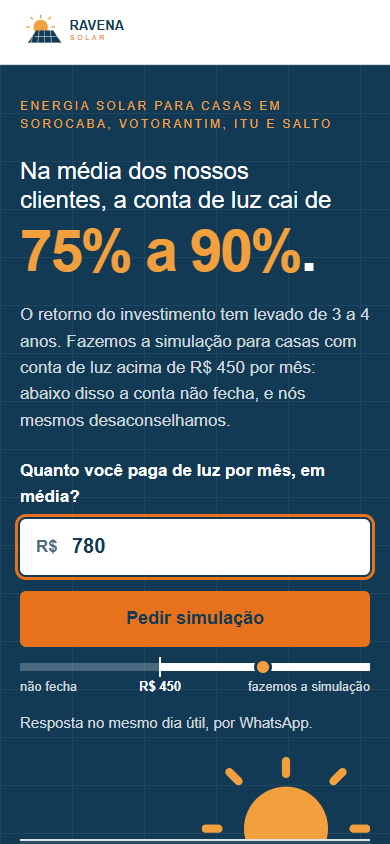
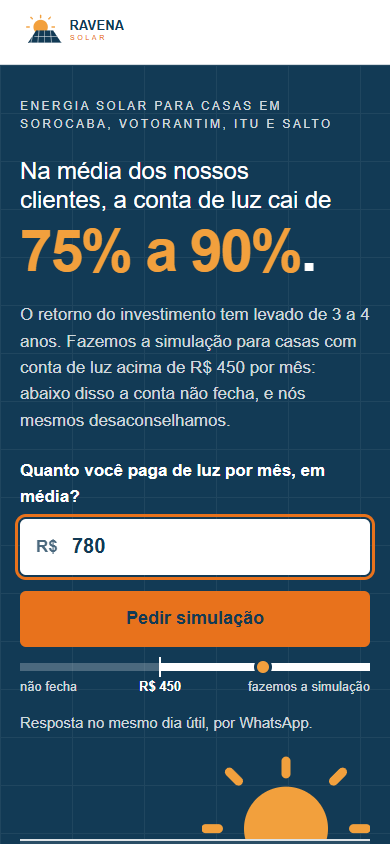
Primeira dobra redistribuída e painel de prova mais leve
- A dobra cai na linha de cima do painel: os números não aparecem
  mais cortados ao meio (SPEC, item 3).
- Cinco tamanhos de texto acima da dobra, frase em 40px quebrando
  depois de "clientes,", sobretítulo numa linha e sem âmbar.
- Ritmo vertical único e coluna de 720px, centrada na altura em
  janelas altas.
- Painel de prova: números até 64px, legenda maior e faixa de azul
  com linha de fechamento embaixo.
- Sol até 360px, com traço fixo nos raios.
- DESIGN.md com o porquê de cada regra; verificar.mjs confere a
  frase em 40px; capturas locais refeitas (117 OK).

diff --git a/styles.css b/styles.css
@@ -53,8 +53,8 @@
   :root {
     --t-monumental: clamp(88px, 12vw, 136px);
     --t-numero: clamp(60px, 8.2vw, 96px);
-    --t-prova: clamp(48px, 6.6vw, 88px);
-    --t-h1: 36px;
+    --t-prova: clamp(48px, 5vw, 64px);
+    --t-h1: 40px;
     --t-h2: clamp(40px, 5vw, 56px);
     --t-h3: 20px;
     --t-corpo: 18px;
@@ -229,6 +229,7 @@ p { max-width: var(--medida); }
   background: var(--azul);
   color: var(--branco);
   padding-top: var(--e-5);
+  padding-bottom: var(--e-5); /* o painel termina no azul, não é cortado pela seção branca */
   overflow: hidden;
 }
 .sobretitulo {
@@ -237,7 +238,7 @@ p { max-width: var(--medida); }
   line-height: 1.5;
   letter-spacing: var(--rastro);
   text-transform: uppercase;
-  color: var(--ambar);
+  color: var(--branco-suave); /* acima da dobra, o âmbar é só do número */
 }
 .destaque-ambar { color: var(--ambar); }
 .hero-texto {
@@ -339,11 +340,13 @@ p { max-width: var(--medida); }
 }
 .arte-sol { fill: var(--ambar); }
 .arte-raios { stroke: var(--ambar); stroke-width: 9; stroke-linecap: round; }
+.arte-raios line { vector-effect: non-scaling-stroke; } /* traço fixo, por maior que o sol fique */
 
 /* Painel de prova: células com as linhas brancas da logo */
 .prova-lista {
   display: grid;
   border-top: 2px solid var(--linha-painel);
+  border-bottom: 2px solid var(--linha-painel);
   background: var(--azul); /* tampa o sol; cada célula põe --painel por cima */
 }
 .prova-lista li {
@@ -357,7 +360,7 @@ p { max-width: var(--medida); }
   font-size: var(--t-prova);
 }
 .prova-lista li:first-child { border-top: 0; }
-.prova-lista span { color: var(--branco-suave); font-size: var(--t-pequeno); line-height: 1.4; }
+.prova-lista span { max-width: 24ch; color: var(--branco-suave); font-size: 16px; line-height: 1.4; }
 .prova .numero { color: var(--branco); font-size: 1em; white-space: nowrap; }
 
 .numero {
@@ -836,16 +839,28 @@ p { max-width: var(--medida); }
   .formulario .botao { width: 100%; display: flex; }
   .barra-fixa { display: none; }
 
-  .hero { padding-top: var(--e-7); }
-  .hero-conteudo { max-width: 600px; }
-  .hero-texto { margin-top: var(--e-5); }
-  .hero-conta { margin-top: var(--e-5); }
+  .hero { padding-top: var(--e-7); padding-bottom: var(--e-6); }
+  /* A dobra cai na linha de cima do painel: o conteúdo ocupa a janela menos o topo,
+     o respiro de cima, a margem do painel e uma fresta de 24px onde o painel aparece. */
+  .hero-conteudo {
+    max-width: 720px;
+    min-height: calc(100svh - var(--topo) - var(--e-7) - var(--e-7) - var(--e-4));
+    display: flex;
+    flex-direction: column;
+    justify-content: center; /* em janela alta, a sobra se divide em cima e embaixo */
+  }
+  .sobretitulo { white-space: nowrap; }
+  h1 { line-height: 1.15; }
+  /* A frase quebra depois de "clientes,": "nossos clientes" não se separa */
+  .h1-frase { max-width: 14em; text-wrap: wrap; }
+  .hero-texto { margin-top: var(--e-5); max-width: 600px; }
+  .hero-conta { margin-top: var(--e-6); }
   .hero-conta-linha { grid-template-columns: 1fr auto; }
   .regua-legenda { font-size: var(--t-pequeno); }
 
   .prova { margin-top: var(--e-7); }
-  /* O sol ocupa o que sobra à direita do texto (600px), para nunca passar por trás da régua */
-  .sol { width: clamp(140px, calc(min(100vw - 2 * var(--margem), var(--largura)) - 624px), 520px); }
+  /* O sol ocupa o que sobra à direita da coluna de texto (720px), para nunca passar por trás da régua */
+  .sol { width: clamp(140px, calc(min(100vw - 2 * var(--margem), var(--largura)) - 744px), 360px); }
   .prova-lista { grid-template-columns: repeat(3, 1fr); }
   .prova-lista li {
     grid-template-columns: 1fr;
@@ -856,7 +871,7 @@ p { max-width: var(--medida); }
     border-left: 2px solid var(--linha-painel);
   }
   .prova-lista li:first-child { border-left: 0; }
-  .prova-lista span { font-size: 16px; }
+  .prova-lista span { font-size: 18px; }
 
   .cabeca { margin-bottom: var(--e-7); }
   .apoio { font-size: 20px; }

diff --git a/DESIGN.md b/DESIGN.md
@@ -48,9 +48,9 @@ A voz vem da própria logo, que escreve "RAVENA" em negrito e "SOLAR" leve, com 
 |---|---|---|---|
 | `--t-monumental` | 15vw, entre 46 e 60px (58,5px em 390) / 0,95 | 12vw, entre 88 e 136px / 0,95 | "75% a 90%" e os dois valores do caso. O maior texto da página |
 | `--t-numero` | 56px / 0,95 | 8,2vw, entre 60 e 96px / 0,95 | Número de destaque da objeção ("11 pessoas", "5 anos") |
-| `--t-prova` | 44px / 0,95 | 6,6vw, entre 48 e 88px / 0,95 | Os três números do painel de prova |
+| `--t-prova` | 44px / 0,95 | 5vw, entre 48 e 64px / 0,95 | Os três números do painel de prova. Teto de 64px: a 88px o número ficava mais de cinco vezes maior que a legenda e o painel pesava como um bloco bruto; a prova não deve competir com "75% a 90%" |
 | `--t-h2` | 30px / 1,08 | 5vw, entre 40 e 56px / 1,08 | A pergunta de cada seção |
-| `--t-h1` | 24px / 1,2 | 36px / 1,2 | A frase da promessa, em peso leve, acima do número |
+| `--t-h1` | 24px / 1,2 | 40px / 1,15 | A frase da promessa, em peso leve, acima do número. No computador tem até 14em por linha, para quebrar depois de "clientes," (antes, "nossos / clientes" ficava separado) |
 | `--t-h3` | 19px / 1,3 | 20px / 1,3 | Título de item |
 | `--t-corpo` | 17px / 1,55 | 18px / 1,6 | Texto |
 | `--t-pequeno` | 15px / 1,45 | 15px / 1,45 | Legenda e ajuda de campo |
@@ -76,8 +76,11 @@ Hierarquia: o maior texto da página é sempre um número (`--t-monumental`), e 
 - **Topo fixo:** fundo `--branco`, logo à esquerda. No computador traz o botão à direita. Ganha `--sombra` quando a página rola.
 - **Barra de ação do celular:** fundo `--branco`, presa ao pé da tela, com o botão. Aparece depois que o botão da primeira tela sai de vista e some quando o formulário ou o rodapé aparecem.
 - **Primeira tela:** fundo `--azul`. A promessa tem duas partes: a frase em `--t-h1`, peso leve e `--branco`; e o intervalo "75% a 90%" em `--t-monumental`, negrito e `--ambar`, numa linha só. Ao fundo, a textura do painel. Depois vêm o campo da conta e a régua (abaixo). O pé da tela repete a composição da logo: o sol atrás, o painel na frente.
-- **Sol:** o sol da logo (círculo e cinco raios, mesma geometria de `assets/logo.svg`), em `--ambar`, encostado à direita. Fica atrás do painel de prova, que cobre 30% da altura dele. Largura de 168px no celular; no computador, o que sobra à direita do texto, até 520px.
-- **Painel de prova:** as células do painel da logo, com os três números de prova. Fundo `--azul` com `--painel` por cima; linhas de 2px em `--linha-painel` no topo e entre as células; sem canto e sem sombra. Números em `--t-prova` e `--branco`, legenda em `--branco-suave`. Três colunas no computador, três linhas no celular. Encosta no fim da primeira tela.
+  - **Escala da primeira tela:** só cinco tamanhos acima da dobra: rótulo (`--t-rotulo`), pequeno (`--t-pequeno`, na régua e na nota), corpo (`--t-corpo`, no texto e no rótulo do campo), frase (`--t-h1`) e número (`--t-monumental`). O sobretítulo fica em `--branco-suave`, numa linha só no computador, porque o âmbar acima da dobra é só do número. *Por quê:* a primeira tela tinha nove tamanhos e um sobretítulo âmbar em duas linhas disputando com "75% a 90%", o que deixava a dobra com aspecto desarrumado.
+  - **Ritmo:** 24px do sobretítulo à frase, 8px da frase ao número, 32px do número ao texto, 48px do texto ao campo, 16px entre a régua e a nota.
+  - **Coluna e dobra (computador):** o texto ocupa até 720px. A primeira tela tem pelo menos a altura da janela, e o painel de prova é empurrado para o pé dela: na dobra aparece a linha de cima do painel com o sol nascendo, e os três números entram inteiros logo na primeira rolagem. Em janela alta, o bloco de texto fica centrado na altura que sobra, para não abrir uma faixa vazia acima do painel. *Por quê:* antes o painel começava a cerca de 140px do fim da tela, e os números apareciam cortados pela metade (SPEC, item 3).
+- **Sol:** o sol da logo (círculo e cinco raios, mesma geometria de `assets/logo.svg`), em `--ambar`, encostado à direita. Fica atrás do painel de prova, que cobre 30% da altura dele. Largura de 168px no celular; no computador, o que sobra à direita da coluna de texto (720px), até 360px. Os raios têm traço fixo de 9px na tela (`vector-effect: non-scaling-stroke`), seja qual for o tamanho do sol. *Por quê:* com 520px e o traço escalando junto, os raios passavam de 20px de espessura e, cortados pelo painel, pareciam pílulas soltas, não raios.
+- **Painel de prova:** as células do painel da logo, com os três números de prova. Fundo `--azul` com `--painel` por cima; linhas de 2px em `--linha-painel` no topo e entre as células; sem canto e sem sombra. Números em `--t-prova` e `--branco`, legenda em `--branco-suave` (16px no celular, 18px no computador, até 24ch por linha). Três colunas no computador, três linhas no celular. Abaixo do painel fica uma faixa de azul (`--e-5` no celular, `--e-6` no computador) antes da seção branca, com a linha `--linha-painel` fechando o painel embaixo. *Por quê:* encostado no fim da primeira tela, o painel parecia cortado pela seção seguinte, não terminado.
 - **Régua dos R$ 450:** sob o campo da conta. Trilho de 8px: à esquerda da marca, `--linha-clara`; à direita, `--branco`. A marca fica a 40% da largura (`--limite`), com 2px e 20px de altura, e é o único número escrito: "R$ 450". Legendas em 13px (15px no computador): "não fecha" e "fazemos a simulação". O valor digitado é um ponto de 18px em `--ambar` com contorno `--azul`, na posição `valor / 450 x 40%`, parando nas pontas. Nada é laranja: a régua não é ação.
 - **Textura do painel:** a grade das células do painel da logo (células de 72x48px, linha de 1px), em `--branco` com opacidade `--textura` (0,06). Só sobre `--azul`: primeira tela e seção do formulário. É desenhada por máscara SVG, não por gradiente, e fica atrás do conteúdo.
 - **Rótulo de seção:** fio de 1px em `--linha` de ponta a ponta do conteúdo, com um traço de 40x4px em `--ambar` no começo. Abaixo, o número da folha (01 a 06, em negrito e `--azul`) e o rótulo em caixa alta. O número é desenhado pelo CSS (`counter`): é ordem, não cifra, e não entra no texto da página.
